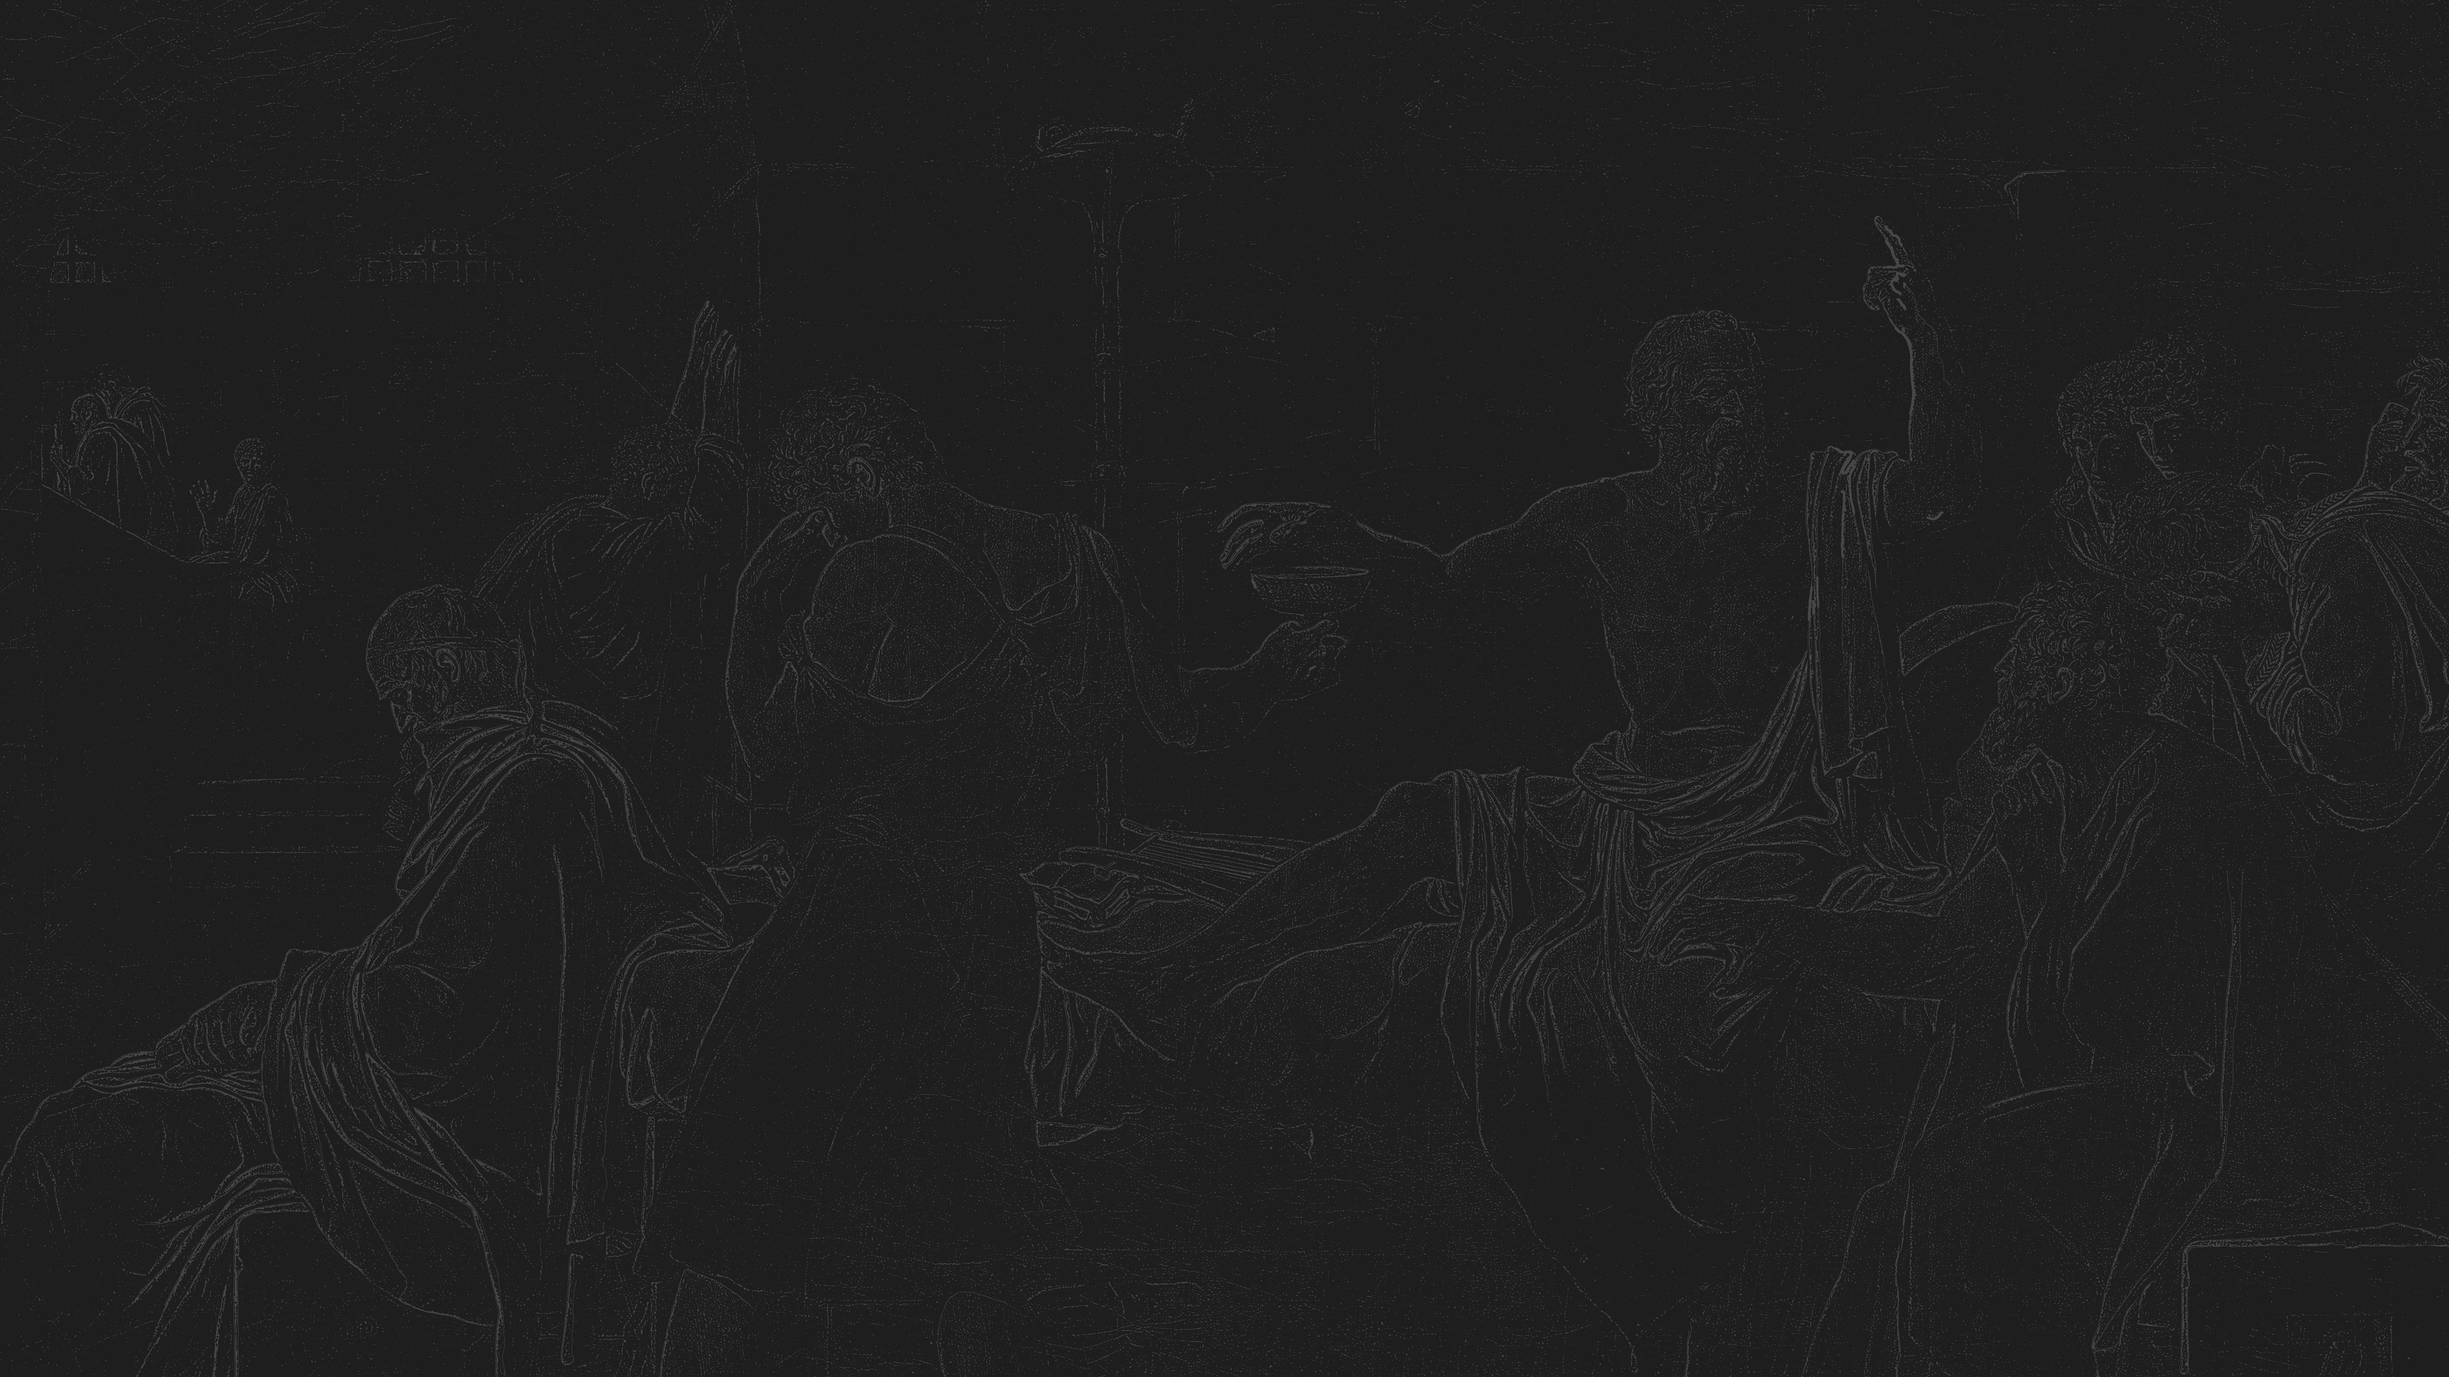
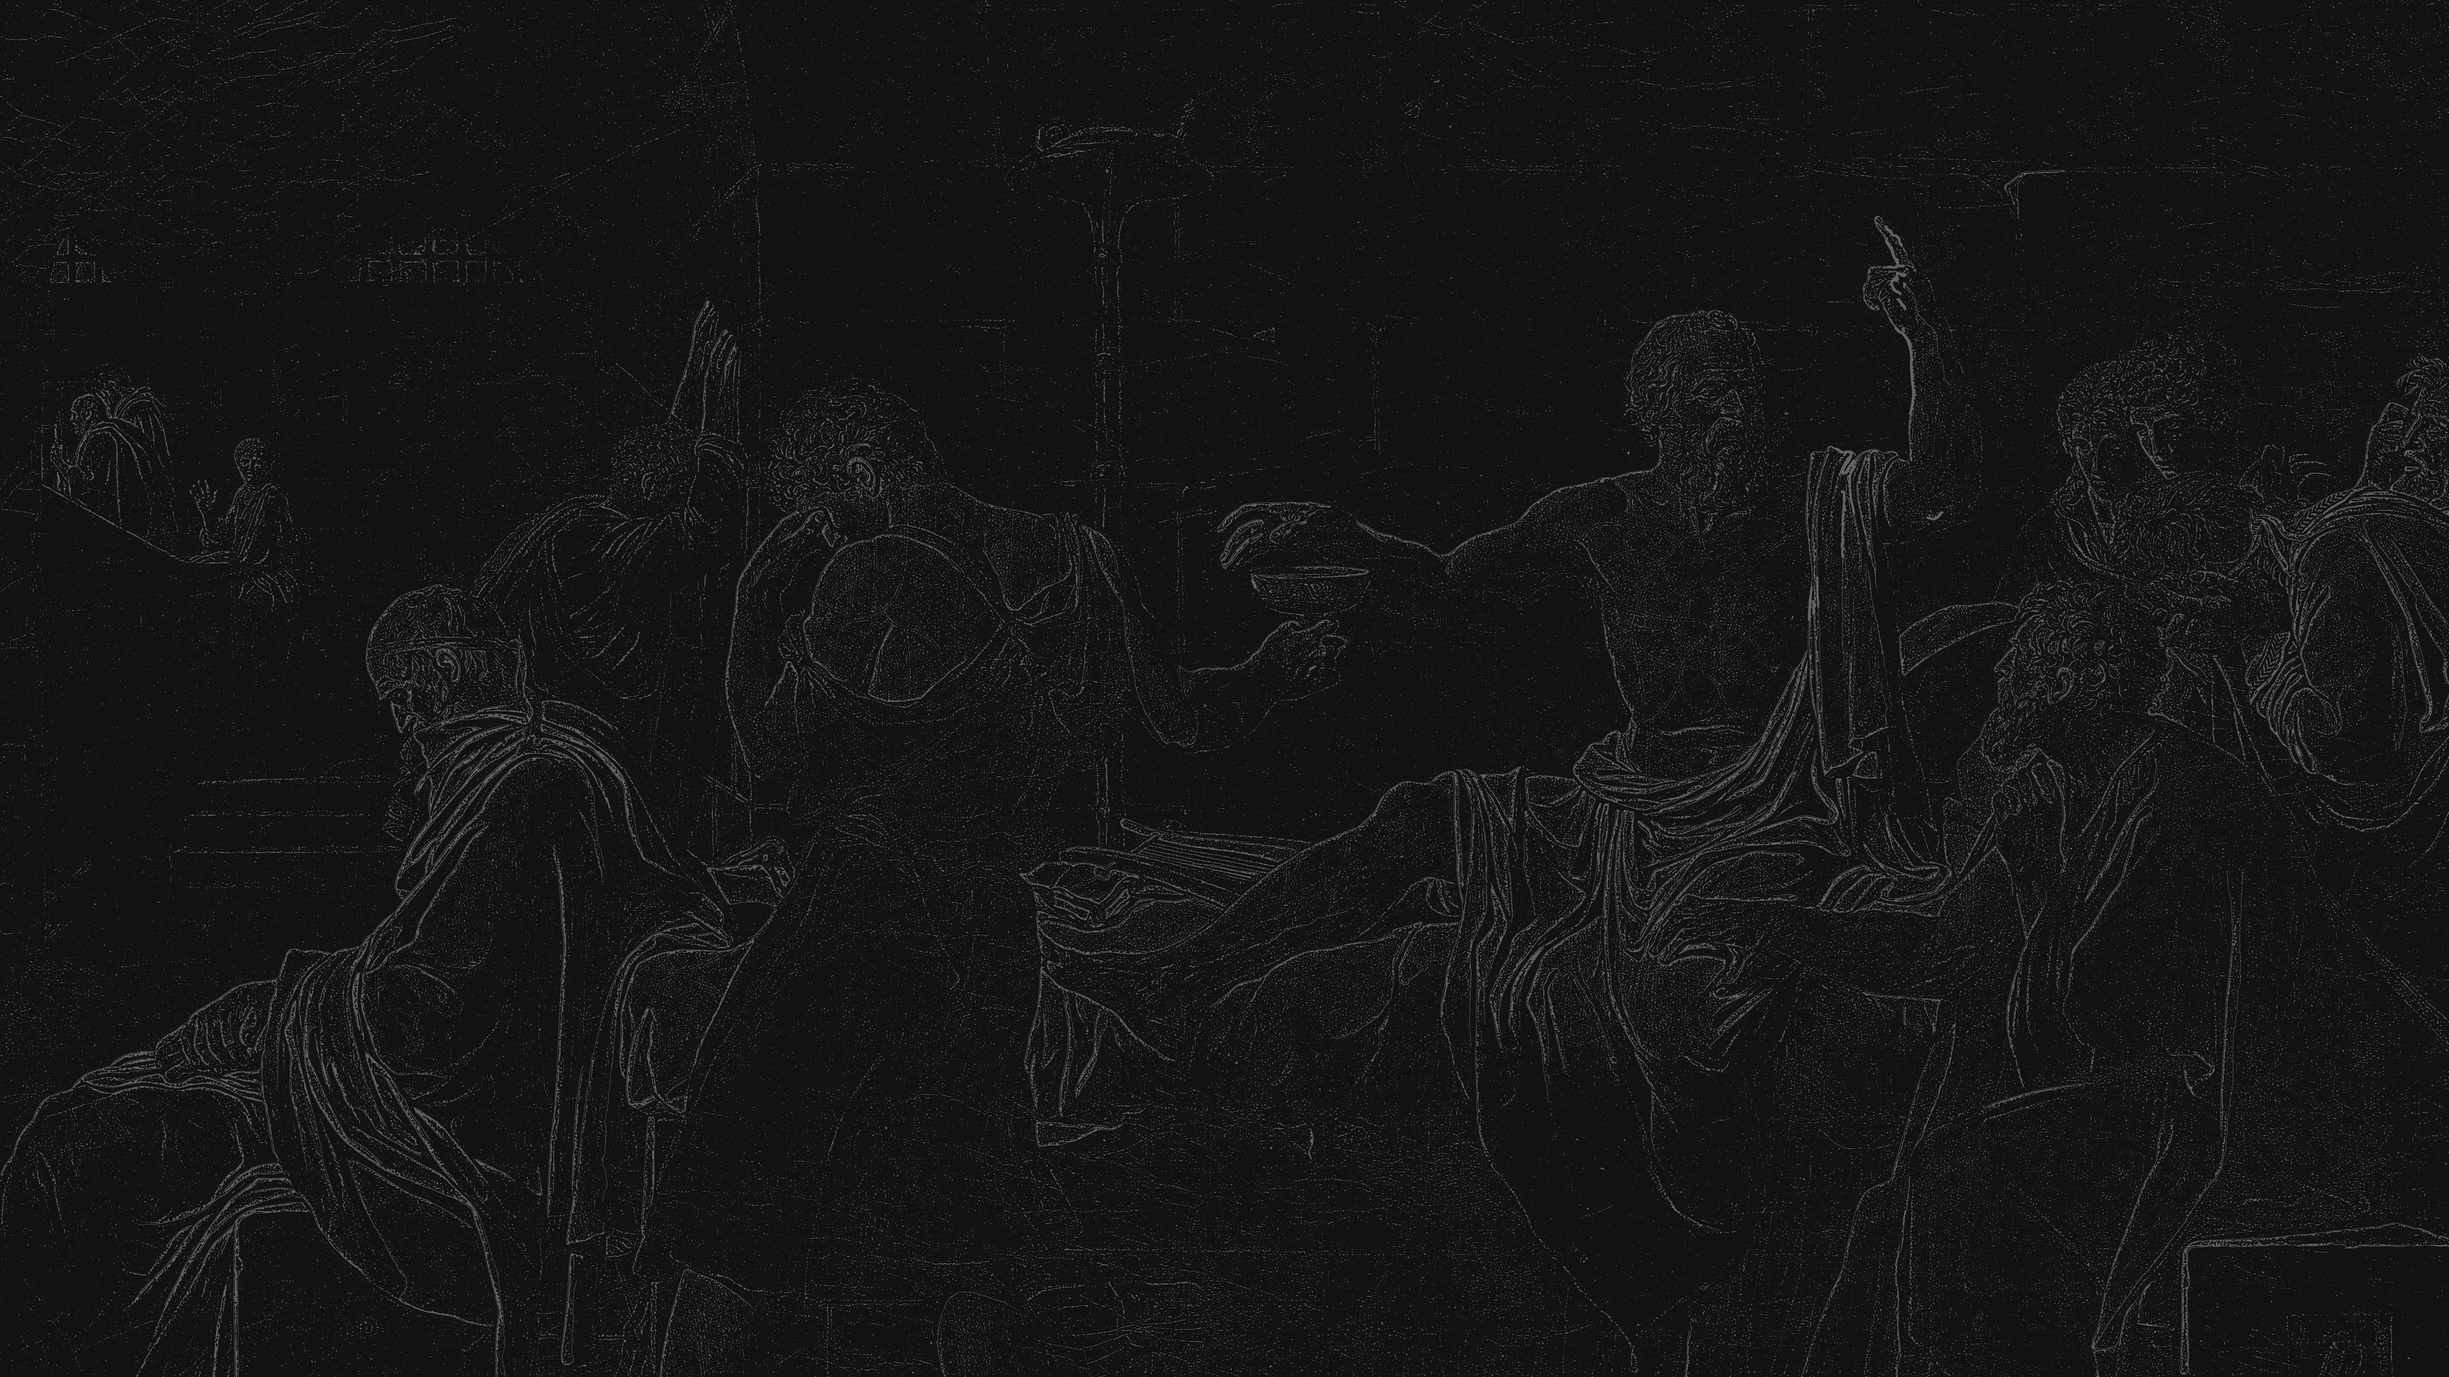
Migrate wallpapers to dark PNGs

diff --git a/wallpapers/generate-final-wallpapers.py b/wallpapers/generate-final-wallpapers.py
@@ -1,5 +1,5 @@
 #!/usr/bin/env python3
-"""Generate all eight final Stargazing wallpapers from the approved gen 11 artwork."""
+"""Generate the five final dark Stargazing wallpapers from approved gen 11 artwork."""
 from __future__ import annotations
 
 import json
@@ -8,12 +8,19 @@ import subprocess
 from pathlib import Path
 
 ROOT = Path(__file__).resolve().parent
-SOURCE = ROOT / "experiments" / "11-source-aligned-boundaries" / "mineral-paper-light.png"
+SOURCE = ROOT / "experiments" / "11-source-aligned-boundaries" / "mineral-paper-dark.png"
 PALETTE = ROOT.parent / "dist" / "stargazing.json"
 OUT = ROOT / "final"
 
-SOURCE_LINE = "#7E8080"
-SOURCE_BACKGROUND = "#EDF0EF"
+SOURCE_LINE = "#686B6A"
+SOURCE_BACKGROUND = "#0F1111"
+
+# Grey Fruit keeps its semantic UI palette, but its wallpaper uses the
+# Graphite Balanced treatment: neutral, darker, and closer to the other
+# Stargazing families' contrast.
+WALLPAPER_OVERRIDES = {
+    "grey-fruit": {"line": "#626262", "background": "#121212"},
+}
 
 
 def run(*args: object) -> None:
@@ -32,41 +39,29 @@ def main() -> None:
     outputs: list[Path] = []
 
     for slug, theme in themes.items():
-        if "semantic" in theme:
-            variants = tuple(
-                (mode, roles["tx3"]["hex"], roles["bg"]["hex"])
-                for mode, roles in theme["semantic"].items()
-            )
+        override = WALLPAPER_OVERRIDES.get(slug)
+        if override:
+            line, background = override["line"], override["background"]
+        elif "semantic" in theme:
+            roles = theme["semantic"]["dark"]
+            line, background = roles["tx3"]["hex"], roles["bg"]["hex"]
         else:
             base = theme["base"]
-            variants = (
-                ("light", base["500"]["hex"], base["paper"]["hex"]),
-                ("dark", base["600"]["hex"], base["black"]["hex"]),
-            )
-        for mode, line, background in variants:
-            destination = OUT / f"{slug}-{mode}.png"
-            run(
-                magick, SOURCE,
-                "-fill", line, "-opaque", SOURCE_LINE,
-                "-fill", background, "-opaque", SOURCE_BACKGROUND,
-                "-colorspace", "sRGB", "-strip",
-                "-define", "png:compression-level=9", destination,
-            )
-            outputs.append(destination)
-
-    rows: list[Path] = []
-    for index in range(0, len(outputs), 2):
-        row = OUT / f".contact-row-{index // 2}.png"
+            line, background = base["600"]["hex"], base["black"]["hex"]
+        destination = OUT / f"{slug}-dark.png"
         run(
-            magick,
-            "(", outputs[index], "-thumbnail", "800x450", ")",
-            "(", outputs[index + 1], "-thumbnail", "800x450", ")",
-            "+append", row,
+            magick, SOURCE,
+            "-fill", line, "-opaque", SOURCE_LINE,
+            "-fill", background, "-opaque", SOURCE_BACKGROUND,
+            "-colorspace", "sRGB", "-strip",
+            "-define", "png:compression-level=9", destination,
         )
-        rows.append(row)
-    run(magick, *rows, "-append", "-quality", "92", OUT / "contact-sheet.jpg")
-    for row in rows:
-        row.unlink()
+        outputs.append(destination)
+
+    thumbnails: list[object] = []
+    for image in outputs:
+        thumbnails += ["(", image, "-thumbnail", "800x450", ")"]
+    run(magick, *thumbnails, "-append", "-quality", "92", OUT / "contact-sheet.jpg")
     print(OUT)
 
 

diff --git a/wallpapers/generate-stronger.py b/wallpapers/generate-stronger.py
@@ -60,36 +60,28 @@ def main() -> None:
 
     files: list[Path] = []
     for slug, theme in palette["themes"].items():
-        base = theme["base"]
-        variants = {
-            "light": (mix(base["400"]["hex"], base["500"]["hex"]), base["paper"]["hex"]),
-            "dark": (mix(base["700"]["hex"], base["600"]["hex"]), base["black"]["hex"]),
-        }
-        for mode, (line, background) in variants.items():
-            destination = OUTPUT / f"{slug}-{mode}.png"
-            run(
-                magick, master,
-                "+level-colors", f"{line},{background}",
-                "-colorspace", "sRGB",
-                "-define", "png:compression-level=9",
-                "-strip",
-                destination,
-            )
-            files.append(destination)
-            print(destination)
-
-    # Two columns: light and dark. Rows follow palette family order.
-    rows: list[Path] = []
-    for index in range(0, len(files), 2):
-        row = WORK / f"row-{index // 2}.png"
+        if "semantic" in theme:
+            roles = theme["semantic"]["dark"]
+            line, background = roles["tx3"]["hex"], roles["bg"]["hex"]
+        else:
+            base = theme["base"]
+            line, background = mix(base["700"]["hex"], base["600"]["hex"]), base["black"]["hex"]
+        destination = OUTPUT / f"{slug}-dark.png"
         run(
-            magick,
-            "(", files[index], "-thumbnail", "800x450", ")",
-            "(", files[index + 1], "-thumbnail", "800x450", ")",
-            "+append", row,
+            magick, master,
+            "+level-colors", f"{line},{background}",
+            "-colorspace", "sRGB",
+            "-define", "png:compression-level=9",
+            "-strip",
+            destination,
         )
-        rows.append(row)
-    run(magick, *rows, "-append", "-quality", "90", ROOT / "contact-sheet-stronger.jpg")
+        files.append(destination)
+        print(destination)
+
+    thumbnails: list[object] = []
+    for image in files:
+        thumbnails += ["(", image, "-thumbnail", "800x450", ")"]
+    run(magick, *thumbnails, "-append", "-quality", "90", ROOT / "contact-sheet-stronger.jpg")
 
 
 if __name__ == "__main__":

diff --git a/wallpapers/generate.py b/wallpapers/generate.py
@@ -53,36 +53,28 @@ def main() -> None:
 
     files: list[Path] = []
     for slug, theme in palette["themes"].items():
-        base = theme["base"]
-        variants = {
-            "light": (base["400"]["hex"], base["paper"]["hex"]),
-            "dark": (base["700"]["hex"], base["black"]["hex"]),
-        }
-        for mode, (line, background) in variants.items():
-            destination = OUTPUT / f"{slug}-{mode}.png"
-            run(
-                magick, master,
-                "+level-colors", f"{line},{background}",
-                "-colorspace", "sRGB",
-                "-define", "png:compression-level=9",
-                "-strip",
-                destination,
-            )
-            files.append(destination)
-            print(destination)
-
-    # Two columns: light and dark. Rows follow palette family order.
-    rows: list[Path] = []
-    for index in range(0, len(files), 2):
-        row = WORK / f"row-{index // 2}.png"
+        if "semantic" in theme:
+            roles = theme["semantic"]["dark"]
+            line, background = roles["tx3"]["hex"], roles["bg"]["hex"]
+        else:
+            base = theme["base"]
+            line, background = base["700"]["hex"], base["black"]["hex"]
+        destination = OUTPUT / f"{slug}-dark.png"
         run(
-            magick,
-            "(", files[index], "-thumbnail", "800x450", ")",
-            "(", files[index + 1], "-thumbnail", "800x450", ")",
-            "+append", row,
+            magick, master,
+            "+level-colors", f"{line},{background}",
+            "-colorspace", "sRGB",
+            "-define", "png:compression-level=9",
+            "-strip",
+            destination,
         )
-        rows.append(row)
-    run(magick, *rows, "-append", "-quality", "90", ROOT / "contact-sheet.jpg")
+        files.append(destination)
+        print(destination)
+
+    thumbnails: list[object] = []
+    for image in files:
+        thumbnails += ["(", image, "-thumbnail", "800x450", ")"]
+    run(magick, *thumbnails, "-append", "-quality", "90", ROOT / "contact-sheet.jpg")
 
 
 if __name__ == "__main__":

diff --git a/wallpapers/generate-experiments.py b/wallpapers/generate-experiments.py
@@ -29,13 +29,8 @@ def colorize(magick: str, mask: Path, destination: Path, line: str, background: 
     )
 
 
-def contact_sheet(magick: str, light: Path, dark: Path, destination: Path) -> None:
-    run(
-        magick,
-        "(", light, "-thumbnail", "800x450", ")",
-        "(", dark, "-thumbnail", "800x450", ")",
-        "+append", "-quality", "90", destination,
-    )
+def contact_sheet(magick: str, image: Path, destination: Path) -> None:
+    run(magick, image, "-thumbnail", "800x450", "-quality", "90", destination)
 
 
 def main() -> None:
@@ -45,7 +40,6 @@ def main() -> None:
 
     palette = json.loads(PALETTE.read_text())
     base = palette["themes"]["mineral-paper"]["base"]
-    light_colors = (base["500"]["hex"], base["paper"]["hex"])
     dark_colors = (base["600"]["hex"], base["black"]["hex"])
 
     shutil.rmtree(WORK, ignore_errors=True)
@@ -140,13 +134,11 @@ def main() -> None:
     comparison_rows: list[Path] = []
     for index, (name, mask) in enumerate(experiments.items(), start=1):
         directory = ROOT / "experiments" / name
-        light = directory / "mineral-paper-light.png"
         dark = directory / "mineral-paper-dark.png"
-        colorize(magick, mask, light, *light_colors)
         colorize(magick, mask, dark, *dark_colors)
-        contact_sheet(magick, light, dark, directory / "contact-sheet.jpg")
+        contact_sheet(magick, dark, directory / "contact-sheet.jpg")
         row = WORK / f"comparison-{index}.png"
-        contact_sheet(magick, light, dark, row)
+        contact_sheet(magick, dark, row)
         comparison_rows.append(row)
         print(directory)
 

diff --git a/wallpapers/generate-assertive-contours.py b/wallpapers/generate-assertive-contours.py
@@ -87,24 +87,14 @@ def main() -> None:
     )
 
     base = json.loads(PALETTE.read_text())["themes"]["mineral-paper"]["base"]
-    light = OUT / "mineral-paper-light.png"
     dark = OUT / "mineral-paper-dark.png"
-    for destination, line, background in (
-        (light, base["500"]["hex"], base["paper"]["hex"]),
-        (dark, base["600"]["hex"], base["black"]["hex"]),
-    ):
-        run(
-            magick, final_mask, "+level-colors", f"{line},{background}",
-            "-colorspace", "sRGB", "-define", "png:compression-level=9",
-            "-strip", destination,
-        )
-
     run(
-        magick,
-        "(", light, "-thumbnail", "800x450", ")",
-        "(", dark, "-thumbnail", "800x450", ")",
-        "+append", "-quality", "90", OUT / "contact-sheet.jpg",
+        magick, final_mask,
+        "+level-colors", f"{base['600']['hex']},{base['black']['hex']}",
+        "-colorspace", "sRGB", "-define", "png:compression-level=9",
+        "-strip", dark,
     )
+    run(magick, dark, "-thumbnail", "800x450", "-quality", "90", OUT / "contact-sheet.jpg")
     shutil.rmtree(WORK)
     print(OUT)
 

diff --git a/wallpapers/generate-assertive-detail.py b/wallpapers/generate-assertive-detail.py
@@ -84,24 +84,14 @@ def main() -> None:
     )
 
     base = json.loads(PALETTE.read_text())["themes"]["mineral-paper"]["base"]
-    light = OUT / "mineral-paper-light.png"
     dark = OUT / "mineral-paper-dark.png"
-    for destination, line, background in (
-        (light, base["500"]["hex"], base["paper"]["hex"]),
-        (dark, base["600"]["hex"], base["black"]["hex"]),
-    ):
-        run(
-            magick, final_mask, "+level-colors", f"{line},{background}",
-            "-colorspace", "sRGB", "-define", "png:compression-level=9",
-            "-strip", destination,
-        )
-
     run(
-        magick,
-        "(", light, "-thumbnail", "800x450", ")",
-        "(", dark, "-thumbnail", "800x450", ")",
-        "+append", "-quality", "90", OUT / "contact-sheet.jpg",
+        magick, final_mask,
+        "+level-colors", f"{base['600']['hex']},{base['black']['hex']}",
+        "-colorspace", "sRGB", "-define", "png:compression-level=9",
+        "-strip", dark,
     )
+    run(magick, dark, "-thumbnail", "800x450", "-quality", "90", OUT / "contact-sheet.jpg")
     shutil.rmtree(WORK)
     print(OUT)
 

diff --git a/wallpapers/README.md b/wallpapers/README.md
@@ -1,21 +1,22 @@
 # Stargazing wallpapers
 
-This directory preserves the complete working project for the appearance-aware
+This directory preserves the complete working project for the dark-only
 Stargazing wallpapers based on Jacques-Louis David's *The Death of Socrates*.
 
-The approved result is source-specific. The early Difference-of-Gaussians
-pipeline can process another image, but the selected crop, focal masks,
-architecture masks, thresholds, and final two-color master were tuned to this
-painting. It is not a general “same style from any image” generator.
+The approved result is source-specific and dark-only. The early
+Difference-of-Gaussians pipeline can process another image, but the selected
+crop, focal masks, architecture masks, thresholds, and final two-color master
+were tuned to this painting. It is not a general “same style from any image”
+generator.
 
 ## Contents
 
 - `source/` — preserved 6016×3384 aligned painting source and contour work.
 - `experiments/` and `iterations/` — retained visual development history.
-- `final/` — light and dark PNGs for every canonical family.
+- `final/` — dark PNGs for every canonical family.
 - `generate*.py` — ImageMagick 7 pipelines used during development.
-- `generate-final-wallpapers.py` — recolors the approved two-color master from
-  the current canonical palette.
+- `generate-final-wallpapers.py` — recolors the approved dark two-color master
+  from the current canonical palette.
 
 All scripts resolve paths from this directory and read `../dist/stargazing.json`.
 Run the canonical palette generator first, then:
@@ -24,5 +25,5 @@ Run the canonical palette generator first, then:
 python3 wallpapers/generate-final-wallpapers.py
 ```
 
-The dynamic HEIC packaging remains in `stargazing-mymac`, because it is an
+The static PNG packaging remains in `stargazing-mymac`, because it is an
 application port rather than canonical palette artwork.
